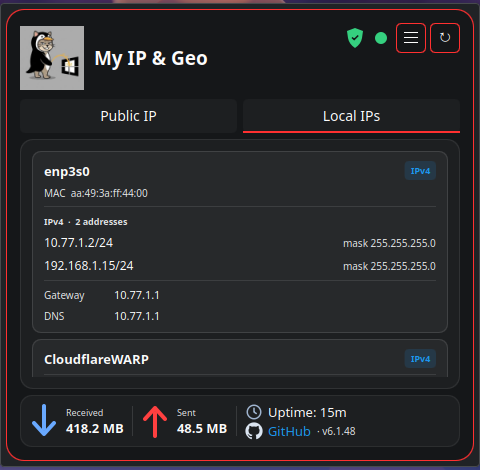
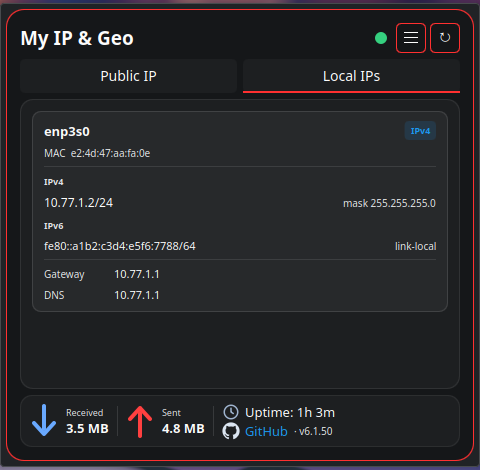
6.1.51: scan networks up to /20, physical traffic totals, Monitor input check
- Scanner: networks up to /20 (4096 addresses) can be scanned, e.g. 10.2.48.0/21; before, anything bigger than /22 was refused. The limit came from the kernel's neighbour table (1024 entries by default): in a big network the kernel drops entries older than 5 s, so a device that only answers ARP and was found early could be gone when the table was read once at the end. Now the answered entries are collected every 2 s while the scan runs. A /21 takes about 20 s, a /24 about 10 s; the status line shows how many addresses are scanned. The default stays the /24 around this device; a bigger network is typed into the field.
- Footer Received / Sent count physical adapters only (Ethernet, Wi-Fi, USB, mobile). Before, all interfaces were added up, so with a VPN every byte was counted twice (tunnel and adapter), and Docker bridges and veth pairs added more. Without any physical adapter (e.g. in a container) all interfaces except lo are counted as before.
- Monitor accepts one IP address (IPv4 with "," or leading zeros is normalised, or IPv6). Anything else, e.g. a network "10.2.50.0/24" or a name, shows a red hint instead of adding a device that could never be checked.
- The 10-minute refresh no longer waits for both the public IP and Local IPs to be idle: a Local IPs read that never finished blocked the public IP refresh for good. Each part keeps its own busy check.
[…]

diff --git a/package/contents/ui/main.qml b/package/contents/ui/main.qml
@@ -53,6 +53,10 @@ PlasmoidItem {
     property bool scanCidrUserEdited: false
     property bool scanLoading: false
     property string scanStatus: ""
+    property int scanSeq: 0
+    property int trafficSeq: 0
+    property int speedRunSeq: 0
+    property string monitorError: ""
     property var scanHosts: []
     property var scanNames: ({})
     property string scanRunCidr: ""
@@ -451,8 +455,8 @@ PlasmoidItem {
         var item = scanInterface()
         if (!item || !item.ipv4.length || !item.ipv4Prefix.length) return
         var prefix = parseInt(item.ipv4Prefix[0])
-        // Networks bigger than /22 are scanned as the /24 around this device
-        var cidr = ipv4Network(item.ipv4[0], prefix < 22 ? 24 : prefix)
+        // Default: the /24 around this device (a bigger network, up to /20, can be typed in)
+        var cidr = ipv4Network(item.ipv4[0], prefix < 24 ? 24 : prefix)
         if (cidr && !root.scanCidrUserEdited) root.scanCidr = cidr
     }
 
@@ -481,7 +485,7 @@ PlasmoidItem {
         var out = String(text || "")
         if (out.indexOf("__BADCIDR__") !== -1) return {error: "Invalid network address", hosts: []}
         var big = out.match(/__TOOBIG__ (\d+)/)
-        if (big) return {error: "Network too large (" + big[1] + " addresses, max 1024)", hosts: []}
+        if (big) return {error: "Network too large (" + big[1] + " addresses, max 4096 = /20)", hosts: []}
         if (out.indexOf("__NEIGH__") === -1) return {error: "Scan failed", hosts: []}
         var m = String(cidr).match(/^(\d+\.\d+\.\d+\.\d+)(?:\/(\d+))?$/)
         if (!m) return {error: "Invalid network address", hosts: []}
@@ -519,6 +523,14 @@ PlasmoidItem {
         return {error: "", hosts: hosts}
     }
 
+    // "Scanning 2046 addresses…" while a scan runs
+    function scanProgressText(cidr) {
+        var m = String(cidr || "").match(/\/(\d+)$/)
+        var bits = m ? +m[1] : 32
+        var n = bits >= 31 ? Math.pow(2, 32 - bits) : Math.pow(2, 32 - bits) - 2
+        return "Scanning " + n + " address" + (n === 1 ? "" : "es") + "…"
+    }
+
     function runNetworkScan() {
         if (scanLoading) return
         var cidr = String(scanCidr || "").trim()
@@ -527,13 +539,15 @@ PlasmoidItem {
             scanStatus = "Enter a network like 192.168.1.0/24"
             return
         }
-        if (m[5] !== undefined && +m[5] < 22) {
-            scanStatus = "Too large: use /22 or smaller"
+        if (m[5] !== undefined && +m[5] < 20) {
+            scanStatus = "Too large: use /20 or smaller"
             return
         }
         scanLoading = true
         scanRunCidr = cidr
-        scanApi.connectSource("sh " + codePath("netscan.sh") + " scan " + cidr)
+        // A new command string every run: the same string again can return the previous result
+        scanSeq += 1
+        scanApi.connectSource("sh " + codePath("netscan.sh") + " scan " + cidr + " " + scanSeq)
     }
 
     // ----- Scanner: per-host TCP port check (portscan.sh) -----
@@ -616,16 +630,31 @@ PlasmoidItem {
         }
     }
 
+    // A single IPv4 address (leading zeros dropped) or an IPv6 address; "" for anything else
+    function normalizeIp(text) {
+        var t = String(text || "").trim().replace(/,/g, ".")
+        var m = t.match(/^(\d{1,3})\.(\d{1,3})\.(\d{1,3})\.(\d{1,3})$/)
+        if (m) {
+            for (var i = 1; i <= 4; ++i) if (+m[i] > 255) return ""
+            return +m[1] + "." + +m[2] + "." + +m[3] + "." + +m[4]
+        }
+        if (/^[0-9a-fA-F:]+$/.test(t) && t.indexOf(":") !== -1 && t.length >= 2 && t.length <= 39) return t.toLowerCase()
+        return ""
+    }
+
+    // Returns false (and sets monitorError) when the text is not one IP address
     function addWatchedDevice(ip, mac) {
-        var safeIp = String(ip || "").trim().replace(/[^0-9a-fA-F:./]/g, "")
-        if (!safeIp) return
+        var safeIp = root.normalizeIp(ip)
+        if (!safeIp) { root.monitorError = "Not an IP address: enter one address like 192.168.1.10"; return false }
+        root.monitorError = ""
         var list = root.watchedDevices.slice(0)
-        for (var i = 0; i < list.length; ++i) if (list[i].ip === safeIp) return
+        for (var i = 0; i < list.length; ++i) if (list[i].ip === safeIp) return true
         list.push({ ip: safeIp, mac: mac || "—", status: "Unknown", lastCheck: "—" })
         root.watchedDevices = list
         saveWatchedDevices()
         root.toolsTab = 5
         monitorWatchedDevices()
+        return true
     }
 
     function removeWatchedDevice(index) {
@@ -1836,7 +1865,8 @@ PlasmoidItem {
         speedSampleTime = 0
         speedPhase = phase
         speedStatus = phase === "ping" ? "Measuring ping…" : (phase === "download" ? "Measuring download…" : "Measuring upload…")
-        var cmd = "sh " + codePath("speedtest.sh") + " " + (phase === "download" ? "down" : (phase === "upload" ? "up" : "ping"))
+        root.speedRunSeq += 1
+        var cmd = "sh " + codePath("speedtest.sh") + " " + (phase === "download" ? "down" : (phase === "upload" ? "up" : "ping")) + " " + root.speedRunSeq
         Qt.callLater(function() { speedApi.connectSource(cmd) })
     }
 
@@ -1974,7 +2004,10 @@ PlasmoidItem {
     }
 
     function refreshTraffic() {
-        trafficApi.connectSource("awk 'NR > 2 && $1 != \"lo:\" {rx += $2; tx += $10} END {printf \"%s %s\\n\", rx+0, tx+0}' /proc/net/dev")
+        // Physical adapters only (they have a device in sysfs): VPN tunnels, bridges and veth carry
+        // the same bytes a second time. Without any, every interface but lo.
+        root.trafficSeq += 1
+        trafficApi.connectSource("MYIPGEO_SEQ=" + root.trafficSeq + " sh -c 'rx=0; tx=0; n=0; for d in /sys/class/net/*; do [ -e \"$d/device\" ] || continue; read r < \"$d/statistics/rx_bytes\" && read t < \"$d/statistics/tx_bytes\" || continue; rx=$((rx + r)); tx=$((tx + t)); n=$((n + 1)); done; [ $n -gt 0 ] || for d in /sys/class/net/*; do [ \"${d##*/}\" = lo ] && continue; read r < \"$d/statistics/rx_bytes\" && read t < \"$d/statistics/tx_bytes\" || continue; rx=$((rx + r)); tx=$((tx + t)); done; echo \"$rx $tx\"'")
     }
 
     Plasma5Support.DataSource {
@@ -2248,7 +2281,7 @@ PlasmoidItem {
     Timer { interval:600000
  repeat:true
  running:true
- onTriggered: { if(!root.loading&&!root.localLoading)root.refreshAll(); root.monitorWatchedDevices() } }
+ onTriggered: { root.refreshAll(); root.monitorWatchedDevices() } }
     Timer { interval:30000
  repeat:true
  running:true
@@ -2739,7 +2772,7 @@ font.pixelSize:13 }
                             spacing: 5
                             Image { source: Qt.resolvedUrl("../images/github.svg"); sourceSize.width: 18; sourceSize.height: 18; Layout.preferredWidth: 18; Layout.preferredHeight: 18 }
                             Text { text: "GitHub"; color: root.themeLink; font.pixelSize: 13; MouseArea { anchors.fill: parent; cursorShape: Qt.PointingHandCursor; onClicked: Qt.openUrlExternally("https://github.com/f1devbin/my-ip-geo-plasma6") } }
-                            Text { text: "· v6.1.50"; color: root.themeSecondary; font.pixelSize: 10 }
+                            Text { text: "· v6.1.51"; color: root.themeSecondary; font.pixelSize: 10 }
                             Item { Layout.fillWidth: true }
                         }
                     }
@@ -2967,10 +3000,10 @@ font.pixelSize:13 }
                     RowLayout {
                         Layout.fillWidth: true
                         Text { text: "Network Scanner"; color: root.themeText; font.pixelSize: 13; font.bold: true; Layout.fillWidth: true }
-                        Text { text: root.scanLoading ? "Scanning…" : root.scanStatus; color: root.scanLoading ? root.themeHighlight : root.themeSecondary; font.pixelSize: 9 }
+                        Text { text: root.scanLoading ? root.scanProgressText(root.scanRunCidr) : root.scanStatus; color: root.scanLoading ? root.themeHighlight : root.themeSecondary; font.pixelSize: 9 }
                     }
                     Text {
-                        text: "Finds every device on the network, including ones that ignore ping (they still answer ARP). A scan takes about 10 seconds. Press the magnifier next to a device to scan its open ports."
+                        text: "Finds every device on the network, including ones that ignore ping (they still answer ARP). A /24 takes about 10 seconds, a /21 about 20. Press the magnifier next to a device to scan its open ports."
                         color: root.themeSecondary
                         font.pixelSize: 10
                         Layout.fillWidth: true
@@ -4080,6 +4113,7 @@ font.pixelSize:13 }
                             placeholderText: "IP address"
                             selectByMouse: true
                             onTextChanged: {
+                                root.monitorError = ""
                                 var normalized = text.replace(/,/g, ".")
                                 if (normalized !== text) text = normalized
                             }
@@ -4087,8 +4121,16 @@ font.pixelSize:13 }
                         Controls.Button {
                             text: "Add"
                             enabled: monitorIpField.text.trim() !== ""
-                            onClicked: { root.addWatchedDevice(monitorIpField.text, "—"); monitorIpField.clear() }
+                            onClicked: { if (root.addWatchedDevice(monitorIpField.text, "—")) monitorIpField.clear() }
                         }
+                    }
+                    Text {
+                        visible: root.monitorError !== ""
+                        text: root.monitorError
+                        color: root.themeNegative
+                        font.pixelSize: 10
+                        Layout.fillWidth: true
+                        wrapMode: Text.Wrap
                     }
                     Text {
                         text: root.watchedDevices.length ? "Status is checked every 30 seconds." : "Add an IP or use Watch from Network Scanner."

diff --git a/tests/test_v50.js b/tests/test_v50.js
@@ -1,0 +1,60 @@
+// v6.1.50: Local IPs badge ignores link-local IPv6; a new path to the internet refreshes the public IP
+const assert = require('assert');
+const { load } = require('./extract');
+const root = load(process.argv[2], ['plainMask', 'ifaceAddrRows', 'isLinkLocal6', 'ipBadge', 'netPathChange']);
+let passed = 0;
+function t(name, fn) { fn(); passed++; console.log('ok  -', name); }
+
+t('isLinkLocal6: fe80::/10 only', () => {
+  for (const a of ['fe80::4d49:8295:38a8:7712', 'FE80::1', 'fe9a::1', 'febf::1']) assert.strictEqual(root.isLinkLocal6(a), true, a);
+  for (const a of ['fd00::2', '2001:db8::1', 'fec0::1', 'fe8::1', '::1', '', null]) assert.strictEqual(root.isLinkLocal6(a), false, String(a));
+});
+
+t('ipBadge: an OpenVPN tun0 with IPv4 and only fe80:: is "IPv4"', () => {
+  const tun0 = {ipv4: ['10.138.192.18'], ipv4Prefix: ['22'], ipv6: ['fe80::4d49:8295:38a8:7712'], ipv6Prefix: ['64']};
+  assert.strictEqual(root.ipBadge(tun0), 'IPv4');
+  const rows = root.ifaceAddrRows(tun0);
+  assert.deepStrictEqual(rows[3], {addr: 'fe80::4d49:8295:38a8:7712/64', mask: '', fam: 6, note: 'link-local'});
+});
+
+t('ipBadge: global or ULA IPv6 counts; only link-local without IPv4 says so', () => {
+  assert.strictEqual(root.ipBadge({ipv4: ['192.0.2.10'], ipv6: ['2001:db8::10', 'fe80::1']}), 'IPv4 + IPv6');
+  assert.strictEqual(root.ipBadge({ipv4: [], ipv6: ['fd00::2']}), 'IPv6');
+  assert.strictEqual(root.ipBadge({ipv4: [], ipv6: ['fe80::1']}), 'IPv6 link-local');
+  assert.strictEqual(root.ipBadge({ipv4: ['192.0.2.10'], ipv6: []}), 'IPv4');
+  assert.strictEqual(root.ipBadge(null), '');
+  // a global address keeps no note
+  assert.strictEqual(root.ifaceAddrRows({ipv4: [], ipv4Prefix: [], ipv6: ['2001:db8::10'], ipv6Prefix: ['64']})[1].note, undefined);
+});
+
+const lan = 'enp0s31f6#2/192.0.2.1/192.0.2.10';
+const ovpn = 'tun0#12/10.138.192.1/10.138.192.18';
+const warp = 'CloudflareWARP#7/-/172.16.0.2';
+
+t('netPathChange: the first check only remembers the path', () => {
+  const r = root.netPathChange('', 'ONLINE 0.123 ' + lan + '\n');
+  assert.deepStrictEqual(r, {state: 'ONLINE', online: true, path: lan, refresh: false});
+});
+
+t('netPathChange: VPN on, switched or off refreshes; the same path does not', () => {
+  assert.strictEqual(root.netPathChange(lan, 'VPN 0.2 ' + ovpn).refresh, true, 'VPN connected');
+  assert.strictEqual(root.netPathChange(warp, 'VPN 0.2 ' + ovpn).refresh, true, 'WARP -> OpenVPN');
+  assert.strictEqual(root.netPathChange(ovpn, 'ONLINE 0.1 ' + lan).refresh, true, 'VPN off');
+  assert.strictEqual(root.netPathChange(ovpn, 'VPN 0.3 ' + ovpn).refresh, false, 'same path');
+  assert.strictEqual(root.netPathChange(ovpn, 'VPN 0.3 tun0#13/10.138.192.1/10.138.192.18').refresh, true, 'reconnected: new interface index');
+});
+
+t('netPathChange: offline keeps the last path, so the same path after an outage refreshes nothing', () => {
+  const off = root.netPathChange(ovpn, 'OFFLINE\n');
+  assert.deepStrictEqual(off, {state: 'OFFLINE', online: false, path: ovpn, refresh: false});
+  assert.strictEqual(root.netPathChange(off.path, 'VPN 0.2 ' + ovpn).refresh, false);
+  assert.strictEqual(root.netPathChange(off.path, 'ONLINE 0.2 ' + lan).refresh, true);
+});
+
+t('netPathChange: empty output and an old two-field line are handled', () => {
+  assert.deepStrictEqual(root.netPathChange(lan, ''), {state: 'OFFLINE', online: false, path: lan, refresh: false});
+  assert.deepStrictEqual(root.netPathChange(lan, 'VPN 0.2'), {state: 'VPN', online: true, path: lan, refresh: false});
+  assert.deepStrictEqual(root.netPathChange('', 'OFFLINE'), {state: 'OFFLINE', online: false, path: '', refresh: false});
+});
+
+console.log(`\n${passed} passed`);

diff --git a/tests/test_v51.js b/tests/test_v51.js
@@ -1,0 +1,33 @@
+// v6.1.51: Monitor accepts one IP address only; scan progress text; parseScan merges repeated neighbour lines
+const assert = require('assert');
+const { load } = require('./extract');
+const root = load(process.argv[2], ['normalizeIp', 'scanProgressText', 'parseScan', 'ipToInt']);
+root.localItems = [];
+let passed = 0;
+function t(name, fn) { fn(); passed++; console.log('ok  -', name); }
+
+t('normalizeIp: IPv4 with commas or leading zeros, IPv6; junk rejected', () => {
+  assert.strictEqual(root.normalizeIp(' 192,168,1,010 '), '192.168.1.10');
+  assert.strictEqual(root.normalizeIp('10.2.50.240'), '10.2.50.240');
+  assert.strictEqual(root.normalizeIp('FD00::2'), 'fd00::2');
+  for (const bad of ['10.2.50.0/24', 'abc', '256.1.1.1', '10.2.50', '', 'host.lan', '1.2.3.4; rm'])
+    assert.strictEqual(root.normalizeIp(bad), '', bad);
+});
+
+t('scanProgressText: host count of the network', () => {
+  assert.strictEqual(root.scanProgressText('10.2.48.0/21'), 'Scanning 2046 addresses…');
+  assert.strictEqual(root.scanProgressText('192.168.1.0/24'), 'Scanning 254 addresses…');
+  assert.strictEqual(root.scanProgressText('10.0.0.7'), 'Scanning 1 address…');
+});
+
+t('parseScan: /21 output with neighbour lines collected twice', () => {
+  const out = '__INFO__ 2046\nUP 10.77.1.1\n__NEIGH__\n10.77.7.200 dev e lladdr aa:bb:cc:dd:ee:01 REACHABLE\n10.77.3.3 dev e FAILED\n'
+    + '10.77.0.5 dev e lladdr aa:bb:cc:dd:ee:02 REACHABLE\n10.77.7.200 dev e lladdr aa:bb:cc:dd:ee:01 REACHABLE\n10.77.1.1 dev e lladdr aa:bb:cc:dd:ee:03 REACHABLE\n';
+  const r = root.parseScan(out, '10.77.0.0/21');
+  assert.strictEqual(r.error, '');
+  assert.deepStrictEqual(r.hosts.map(h => h.ip + ' ' + h.via + ' ' + h.mac),
+    ['10.77.0.5 arp AA:BB:CC:DD:EE:02', '10.77.1.1 ping AA:BB:CC:DD:EE:03', '10.77.7.200 arp AA:BB:CC:DD:EE:01']);
+  assert.ok(/max 4096/.test(root.parseScan('__TOOBIG__ 8190', '10.0.0.0/19').error));
+});
+
+console.log(`\n${passed} passed`);

diff --git a/tests/test_v44.js b/tests/test_v44.js
@@ -1,7 +1,8 @@
 // v6.1.44: Local IPs - subnet mask without the "(/p)" suffix; one flat row list per interface
+// (v6.1.50: a link-local IPv6 row carries note "link-local")
 const assert = require('assert');
 const { load } = require('./extract');
-const root = load(process.argv[2], ['plainMask', 'ifaceAddrRows']);
+const root = load(process.argv[2], ['plainMask', 'ifaceAddrRows', 'isLinkLocal6']);
 let passed = 0;
 function t(name, fn) { fn(); passed++; console.log('ok  -', name); }
 
@@ -24,7 +25,7 @@ t('ifaceAddrRows: header rows then one address row each; IPv4 with mask, IPv6 wi
   assert.deepStrictEqual(rows[1], {addr: '10.0.8.15/21', mask: '255.255.248.0', fam: 4});
   assert.deepStrictEqual(rows[2], {addr: '192.168.10.15/24', mask: '255.255.255.0', fam: 4});
   assert.deepStrictEqual(rows[3], {header: 'IPv6'});
-  assert.deepStrictEqual(rows[4], {addr: 'fe80::a1b2:c3d4:e5f6:7788/64', mask: '', fam: 6});
+  assert.deepStrictEqual(rows[4], {addr: 'fe80::a1b2:c3d4:e5f6:7788/64', mask: '', fam: 6, note: 'link-local'});
 });
 
 t('ifaceAddrRows: single IPv4 uses a plain "IPv4" header; empty families are skipped', () => {

diff --git a/README.md b/README.md
@@ -4,7 +4,7 @@ A compact KDE Plasma 6 widget for your public IP address and location, your loca
 
 It needs no root rights and nothing extra to install on Kubuntu: it only uses tools that are already there (curl, iproute2, ping, bash, Perl).
 
-**Version 6.1.50** · [Changelog](CHANGELOG.md) · [Download](https://github.com/f1devbin/my-ip-geo-plasma6/releases/latest)
+**Version 6.1.51** · [Changelog](CHANGELOG.md) · [Download](https://github.com/f1devbin/my-ip-geo-plasma6/releases/latest)
 
 <img src="screenshots/main.png" width="480" alt="Main view: public IP, location, provider, traffic">
 
@@ -18,7 +18,7 @@ It needs no root rights and nothing extra to install on Kubuntu: it only uses to
 
 **Network tools** (the ☰ button):
 
-- **Scanner.** Finds every device on the local network, including devices that ignore ping (they are found through ARP), and shows router and reverse-DNS names. The magnifier button next to a device scans its TCP ports: the whole range 1-65535 by default, or any range you enter. The whole range takes about a second on a LAN, or about 20 seconds when the device's firewall silently drops closed ports.
+- **Scanner.** Finds every device on the local network (any network up to /20, the /24 around this computer by default), including devices that ignore ping (they are found through ARP), and shows router and reverse-DNS names. The magnifier button next to a device scans its TCP ports: the whole range 1-65535 by default, or any range you enter. The whole range takes about a second on a LAN, or about 20 seconds when the device's firewall silently drops closed ports.
 - **Diagnostics.** Checks the chain connection → router → DNS → internet → websites and names the first broken link in plain words, or shows "Everything works" with latency, jitter and packet loss. Also shows the public IP and Cloudflare location, IPv6, VPN, path MTU and the route to 1.1.1.1 with the latency of each hop, and warns about weak Wi-Fi, packet loss, slow or hijacked DNS, broken IPv6 and sign-in pages (captive portals).
 - **Speed.** Download and upload over 4 parallel streams, ping and jitter, against Cloudflare's speed test servers.
 - **Apps.** Which applications use the network: traffic leaders for the last hour, the last 24 hours or since boot, with the live speed and the connections of each application. Uses the helper of KDE System Monitor.

diff --git a/CHANGELOG.md b/CHANGELOG.md
@@ -2,6 +2,13 @@
 
 All changes of My IP & Geo, newest first.
 
+## v6.1.51
+- Scanner: networks up to /20 (4096 addresses) can be scanned, e.g. 10.2.48.0/21; before, anything bigger than /22 was refused. The limit came from the kernel's neighbour table (1024 entries by default): in a big network the kernel drops entries older than 5 s, so a device that only answers ARP and was found early could be gone when the table was read once at the end. Now the answered entries are collected every 2 s while the scan runs. A /21 takes about 20 s, a /24 about 10 s; the status line shows how many addresses are scanned. The default stays the /24 around this device; a bigger network is typed into the field.
+- Footer Received / Sent count physical adapters only (Ethernet, Wi-Fi, USB, mobile). Before, all interfaces were added up, so with a VPN every byte was counted twice (tunnel and adapter), and Docker bridges and veth pairs added more. Without any physical adapter (e.g. in a container) all interfaces except lo are counted as before.
+- Monitor accepts one IP address (IPv4 with "," or leading zeros is normalised, or IPv6). Anything else, e.g. a network "10.2.50.0/24" or a name, shows a red hint instead of adding a device that could never be checked.
+- The 10-minute refresh no longer waits for both the public IP and Local IPs to be idle: a Local IPs read that never finished blocked the public IP refresh for good. Each part keeps its own busy check.
+- Network scan and speed test commands carry a run number, so running them again can never get the previous result from Plasma's command cache.
+
 ## v6.1.50
 - Public IP follows a VPN switch. The 30-second status check now also reports the path to the internet (interface, its index, gateway, source address). When the path changes while online — VPN connected, disconnected, reconnected or switched (WARP → OpenVPN), another network — the public IP, Local IPs and DNS are read again at once instead of after up to 10 minutes. After an outage on the same path nothing is re-read. Script: `contents/code/netdiag.sh status`.
 - DNS: a server listed by systemd-resolved both as IPv4 and as IPv4-mapped IPv6 (127.0.2.2 and ::ffff:127.0.2.2 with Cloudflare WARP) is shown once, as IPv4, in Local IPs and in Diagnostics.
